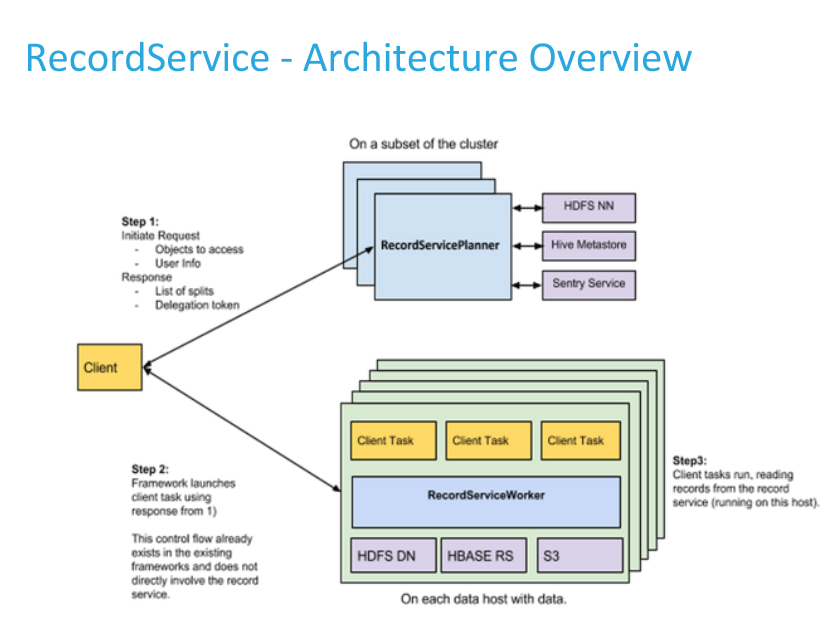
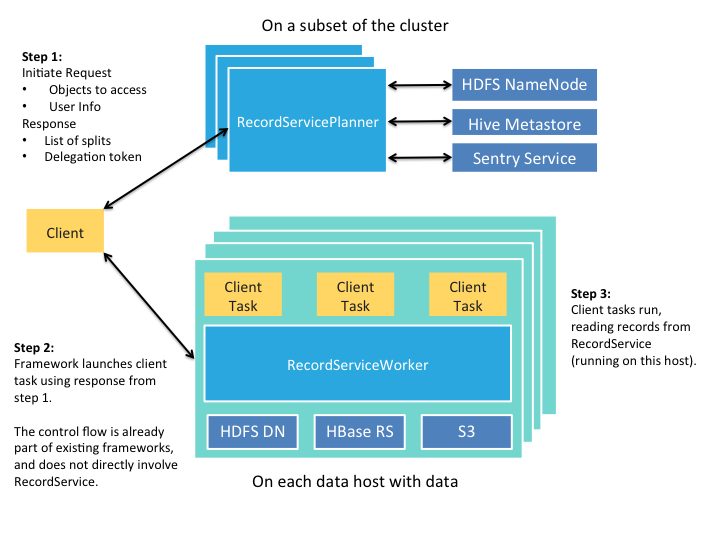
Revised RS ArchOverview graphic for legibility.

diff --git a/index.html b/index.html
@@ -171,6 +171,7 @@
   <li>Client Integration Libraries — Allow easy migration to RecordService.</li>
 </ul>
 
+<h3 id="recordservice-mdash-architecture-overview">RecordService — Architecture Overview</h3>
 <p><img src="img/RecordServiceArchitectureOverview.png" alt="Record Service Architecture Overview " height="85%" width="85%" /></p>
 
 
@@ -192,7 +193,7 @@
         <li>RecordService is licensed under</li>
         <li><a href="http://www.apache.org/licenses/LICENSE-2.0.html">The Apache License, Version 2.0</a></li>
         <li>&nbsp;</li>
-        <li>Generated on 23 September 2015</li>
+        <li>Generated on 24 September 2015</li>
       </ul>
 
     </div>
